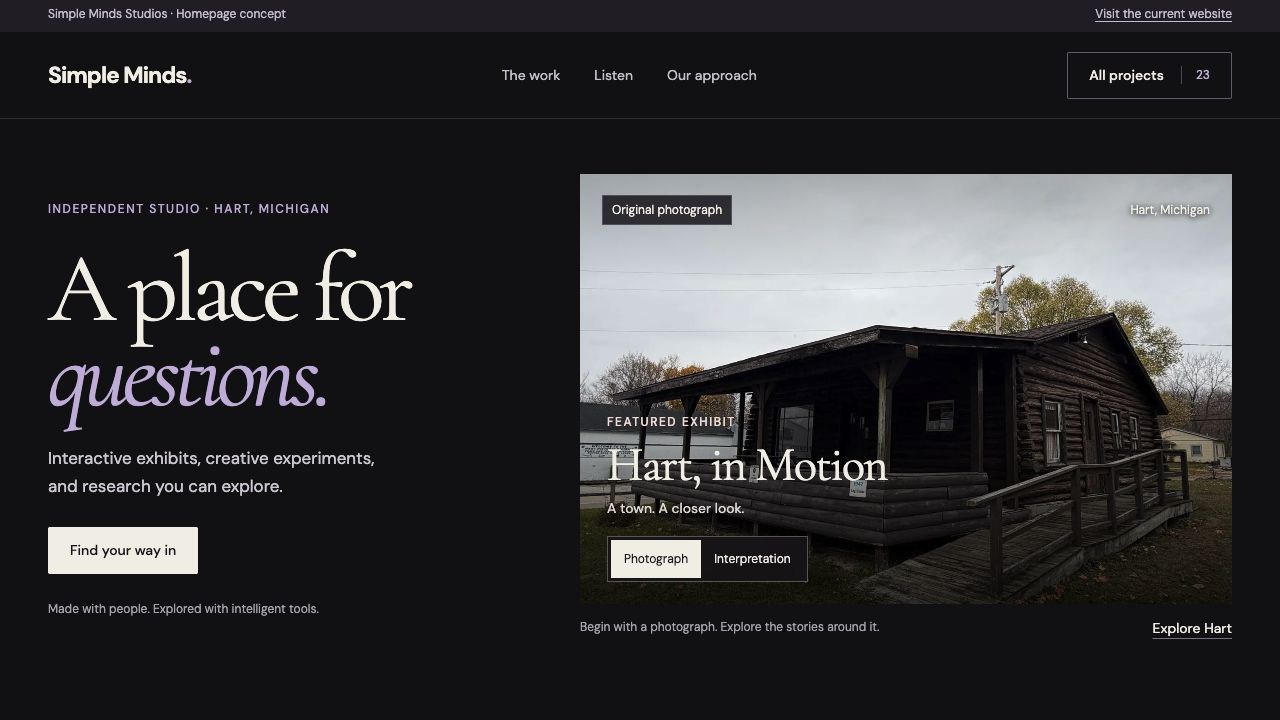
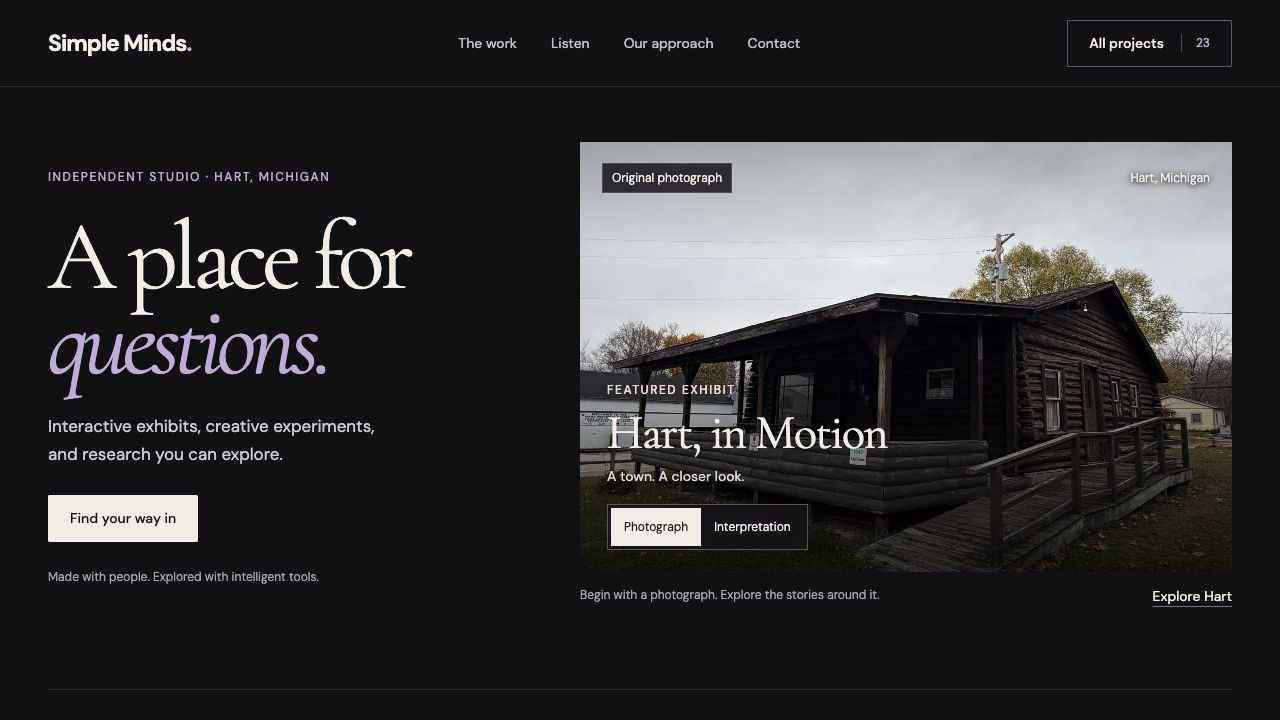
Use a clean live homepage image for social sharing

diff --git a/index.html b/index.html
@@ -14,14 +14,14 @@
   <meta property="og:title" content="Simple Minds Studios — A place for questions">
   <meta property="og:description" content="Interactive exhibits, creative experiments, and research you can explore. Independent studio in Hart, Michigan.">
   <meta property="og:url" content="https://simplemindsstudios.com/">
-  <meta property="og:image" content="https://simplemindsstudios.com/assets/homepage/social-preview.jpg">
+  <meta property="og:image" content="https://simplemindsstudios.com/assets/homepage/social-preview-v2.jpg">
   <meta property="og:image:width" content="1280">
   <meta property="og:image:height" content="720">
   <meta property="og:image:alt" content="Simple Minds Studios, with a photographic preview of Hart, in Motion">
   <meta name="twitter:card" content="summary_large_image">
   <meta name="twitter:title" content="Simple Minds Studios — A place for questions">
   <meta name="twitter:description" content="Interactive exhibits, creative experiments, and research from Hart, Michigan.">
-  <meta name="twitter:image" content="https://simplemindsstudios.com/assets/homepage/social-preview.jpg">
+  <meta name="twitter:image" content="https://simplemindsstudios.com/assets/homepage/social-preview-v2.jpg">
   <script type="application/ld+json">{"@context": "https://schema.org", "@type": "Organization", "name": "Simple Minds Studios", "url": "https://simplemindsstudios.com/", "email": "bart@simplemindsstudios.com", "sameAs": ["https://github.com/Simple-Minds-Studios", "https://www.instagram.com/simplemindsstudios"]}</script>
   <script async src="https://www.googletagmanager.com/gtag/js?id=G-8QL1DX6CTL"></script>
   <script>window.dataLayer=window.dataLayer||[];function gtag(){dataLayer.push(arguments)}gtag('js',new Date());gtag('config','G-8QL1DX6CTL');</script>
